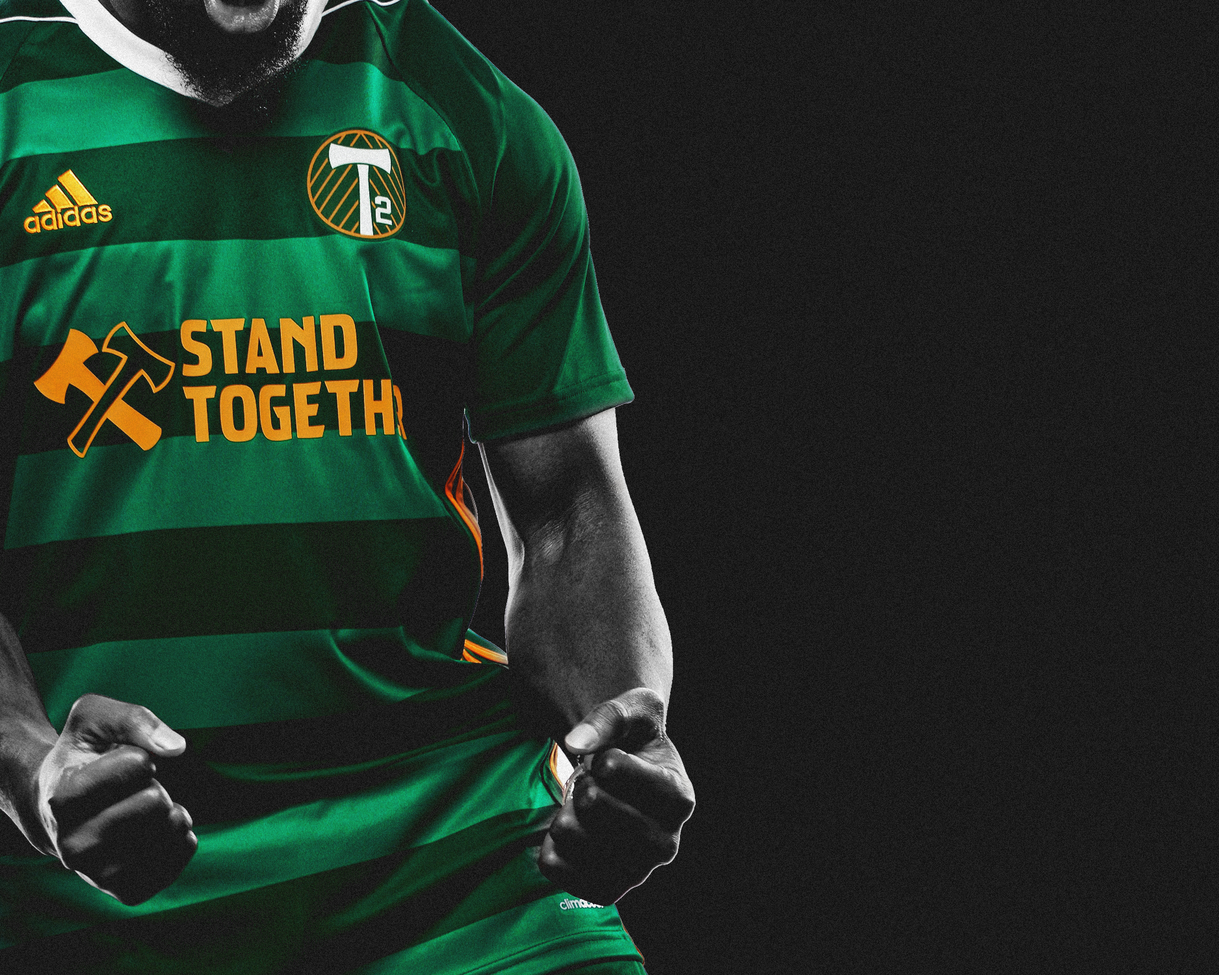
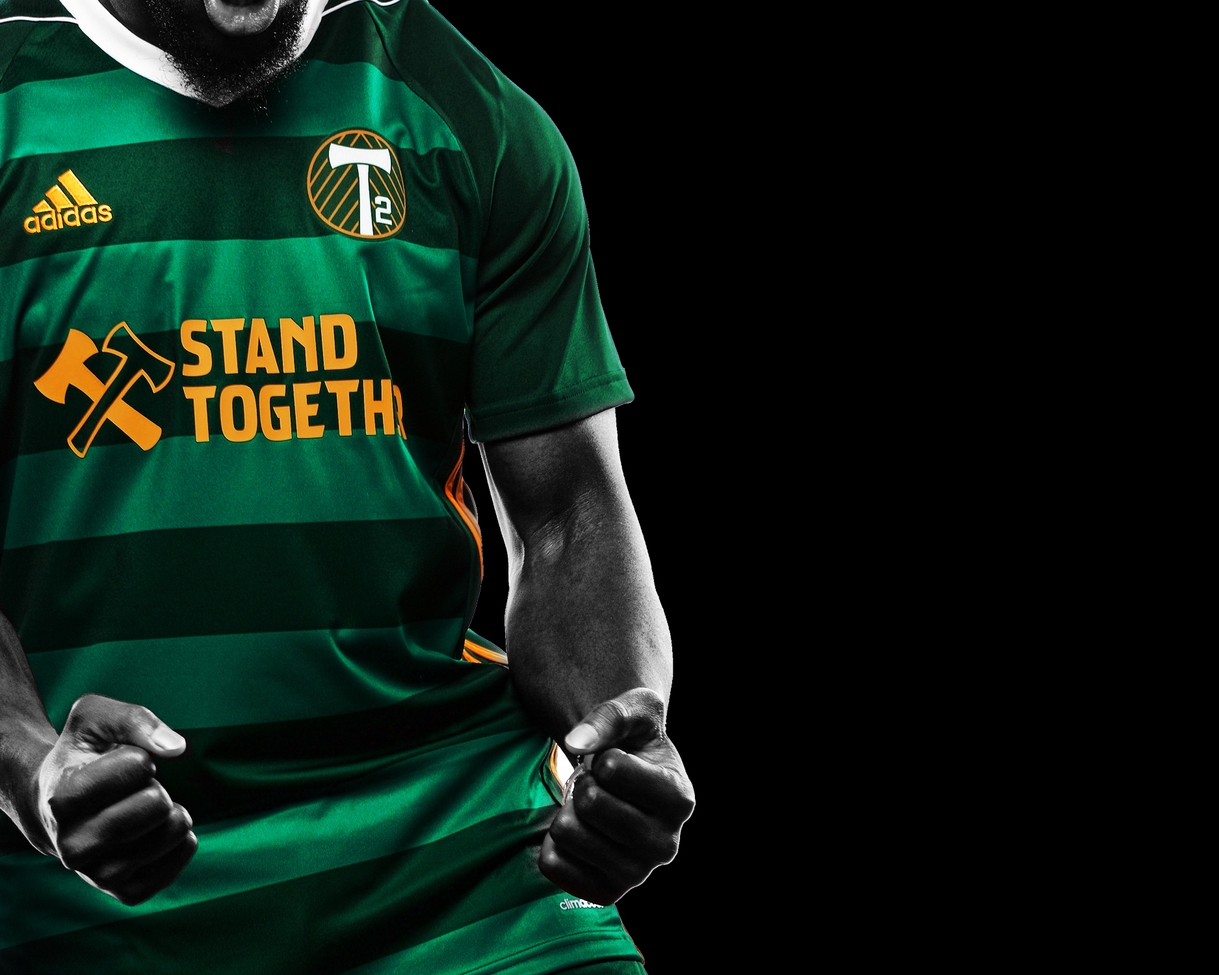
progress

diff --git a/roster.html b/roster.html
@@ -10,18 +10,29 @@
 </head>
 <body>
   <section>
-    <div class="feature">
-      Lorem ipsum dolor sit amet, consectetur adipisicing elit.
-      Laborum quos, reiciendis quia impedit fugit numquam minus
-      perspiciatis, laudantium esse. Cupiditate?
-    </div>
-    <div>Yuh</div>
-    <div>Yuh</div>
-    <div>Yuh</div>
-    <div>Yuh</div>
-    <div>Yuh</div>
-    <div>Yuh</div>
-    <div>Yuh</div>
+    <div class="grid">
+    <div><img src="images/headshots/T2.MediaDay.021919.CM895.JPG"></div>
+    <div><img src="images/headshots/T2.MediaDay.021919.CM895.JPG"></div>
+    <div><img src="images/headshots/T2.MediaDay.021919.CM895.JPG"></div>
+    <div><img src="images/headshots/T2.MediaDay.021919.CM895.JPG"></div>
+    <div><img src="images/headshots/T2.MediaDay.021919.CM895.JPG"></div>
+    <div><img src="images/headshots/T2.MediaDay.021919.CM895.JPG"></div>
+    <div><img src="images/headshots/T2.MediaDay.021919.CM895.JPG"></div>
+    <div><img src="images/headshots/T2.MediaDay.021919.CM895.JPG"></div>
+    <div><img src="images/headshots/T2.MediaDay.021919.CM895.JPG"></div>
+    <div><img src="images/headshots/T2.MediaDay.021919.CM895.JPG"></div>
+    <div><img src="images/headshots/T2.MediaDay.021919.CM895.JPG"></div>
+    <div><img src="images/headshots/T2.MediaDay.021919.CM895.JPG"></div>
+    <div><img src="images/headshots/T2.MediaDay.021919.CM895.JPG"></div>
+    <div><img src="images/headshots/T2.MediaDay.021919.CM895.JPG"></div>
+    <div><img src="images/headshots/T2.MediaDay.021919.CM895.JPG"></div>
+    <div><img src="images/headshots/T2.MediaDay.021919.CM895.JPG"></div>
+    <div><img src="images/headshots/T2.MediaDay.021919.CM895.JPG"></div>
+    <div><img src="images/headshots/T2.MediaDay.021919.CM895.JPG"></div>
+    <div><img src="images/headshots/T2.MediaDay.021919.CM895.JPG"></div>
+    <div><img src="images/headshots/T2.MediaDay.021919.CM895.JPG"></div>
+    <div><img src="images/headshots/T2.MediaDay.021919.CM895.JPG"></div>
+  </div>
   </section>
 
   <script

diff --git a/css/style.css b/css/style.css
@@ -8,7 +8,7 @@
   src: url('../dinot/DINOT.otf') format('otf');
 }
 body {
-	background-color: #151515;
+	background-color: #000;
 	font-size: 16px;
 	 }
 
@@ -24,6 +24,18 @@ h1 {
 	margin-top: 45vh;
 }
 
+.grid {
+  display: grid;
+  justify-items: center;
+  grid-template-columns: repeat(6, 1fr);
+  grid-gap: 20px;
+}
+
+.grid img{
+  width: 100px;
+}
+
+/*
 h2 {
 	font-size: 36px;
 }
@@ -42,7 +54,6 @@ blockquote {
 
 header {margin-bottom: 20px;}
 
-/* ensures that your images stretch the width of their containers */
 img { width: 100%; }
 
 a {
@@ -71,3 +82,4 @@ a:hover { color: black; }
 @media only screen and (min-width:1224px) {
 
 }
+*/

diff --git a/index.html b/index.html
@@ -11,13 +11,12 @@
 <body>
   <header>
     <div class="dude">
-  <img src="images/HomePageImage.jpg" class="hpi">
+  <img src="images/homepageimage.jpg" class="hpi">
 </div>
 <div class="title">
-  <h1> PORTLAND T2 </h1>
+  <a href="roster.html"> <h1> PORTLAND T2 </h1> </a>
 </div>
 </header>
-
   <script
   	src="https://code.jquery.com/jquery-3.4.1.min.js"
   	integrity="sha256-CSXorXvZcTkaix6Yvo6HppcZGetbYMGWSFlBw8HfCJo="
